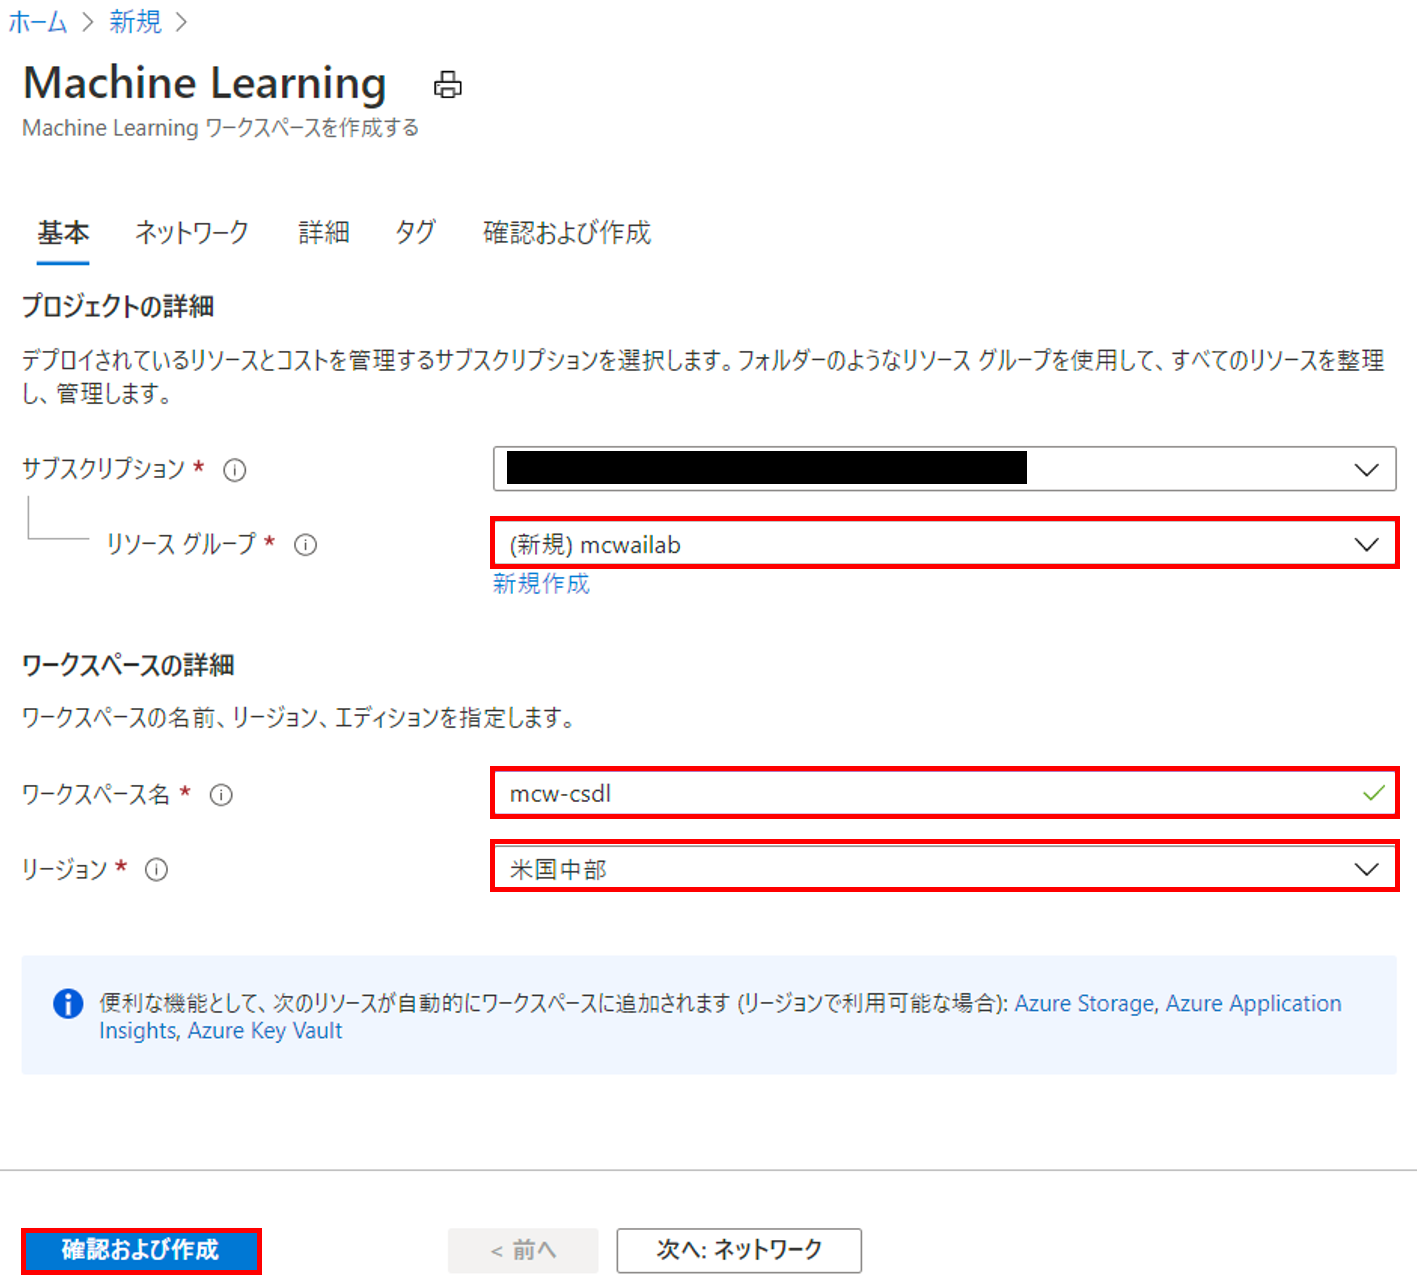
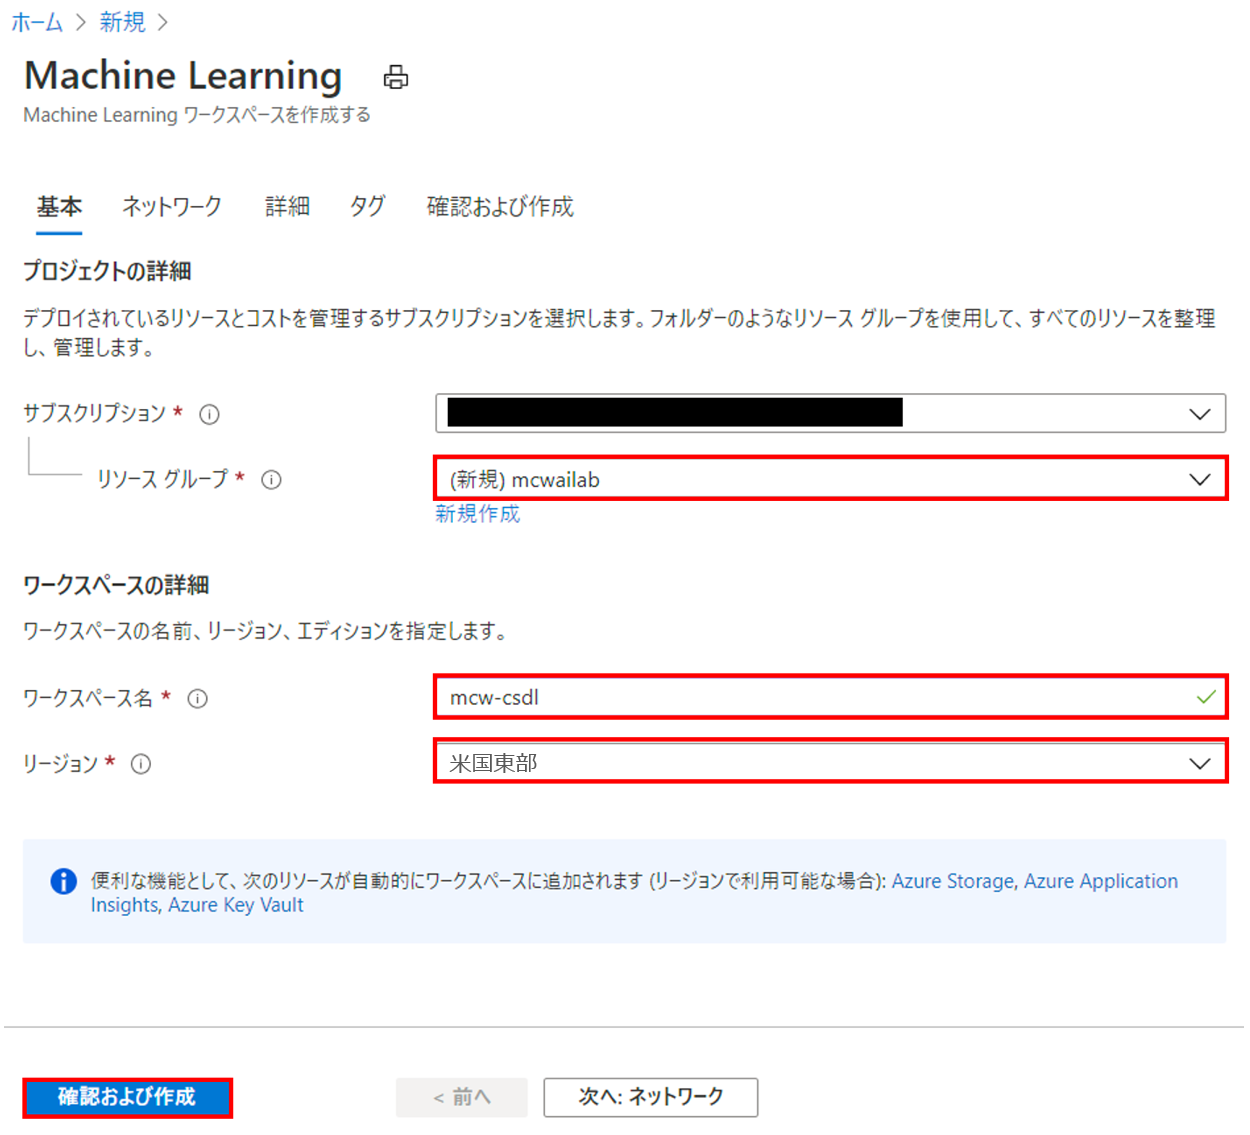
reviced: region

diff --git a/Hands-on lab/Before the HOL - Cognitive services and deep learning.md b/Hands-on lab/Before the HOL - Cognitive services and deep learning.md
@@ -64,7 +64,7 @@ Microsoft および <https://www.microsoft.com/en-us/legal/intellectualproperty/
   
    - **ワークスペース名**: ワークスペースを識別する一意の名前を入力します。この例では、**mcw-csdl** を使用しています。名前はリソース グループ全体で一意でなければなりません。この例では、**mcw-csdl** を使用しています。
 
-   - **リージョン**: ユーザーとデータ リソースに最も近い場所を選択して、ワークスペースを作成します。
+   - **リージョン**: ユーザーとデータ リソースに最も近い場所を選択して、ワークスペースを作成します。リージョンの違いによってコンピューティングインスタンスを利用できない場合がありますので、ここでは米国東部(eastus)をおすすめします。
 
    ![前述の値が入力された機械学習作成フォームが表示されます。確認および作成ボタンがハイライトされています。](images/02.png 'Create Azure Machine Learning Workspace page')
 
